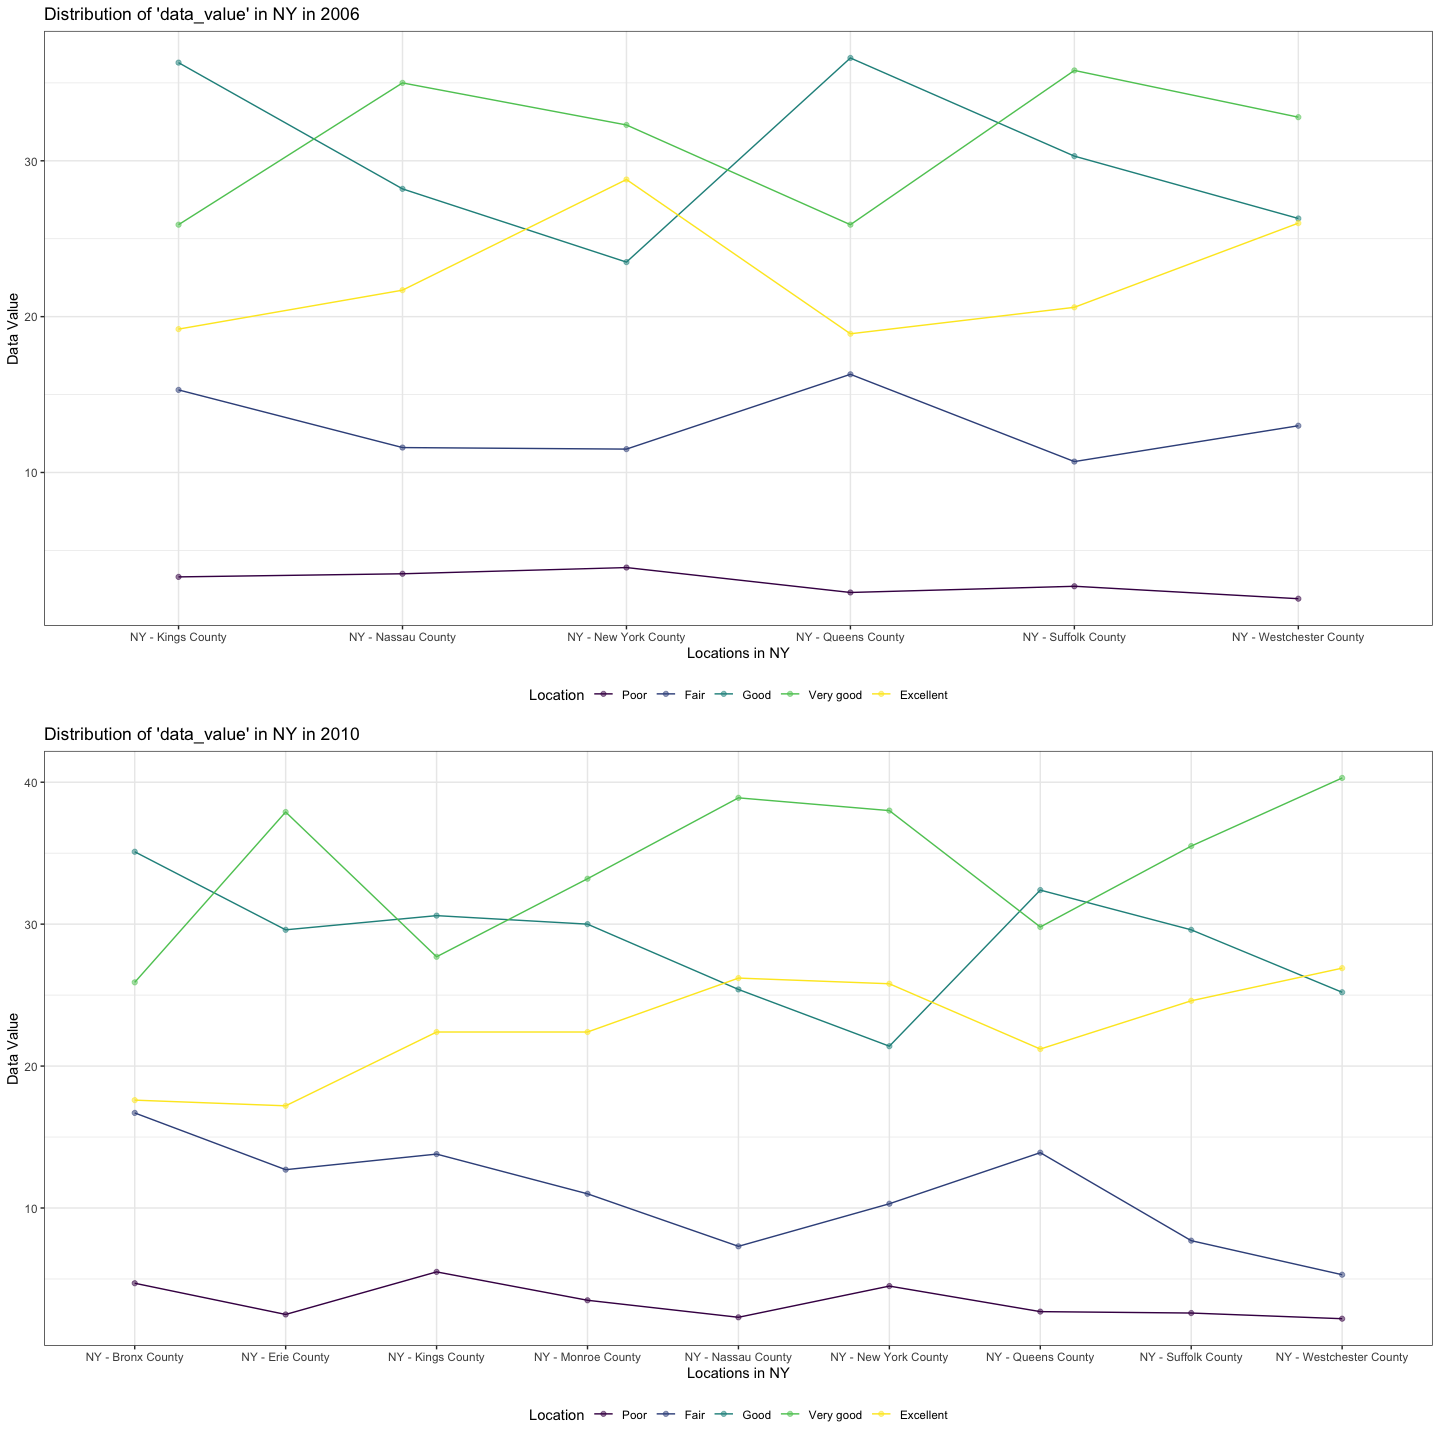
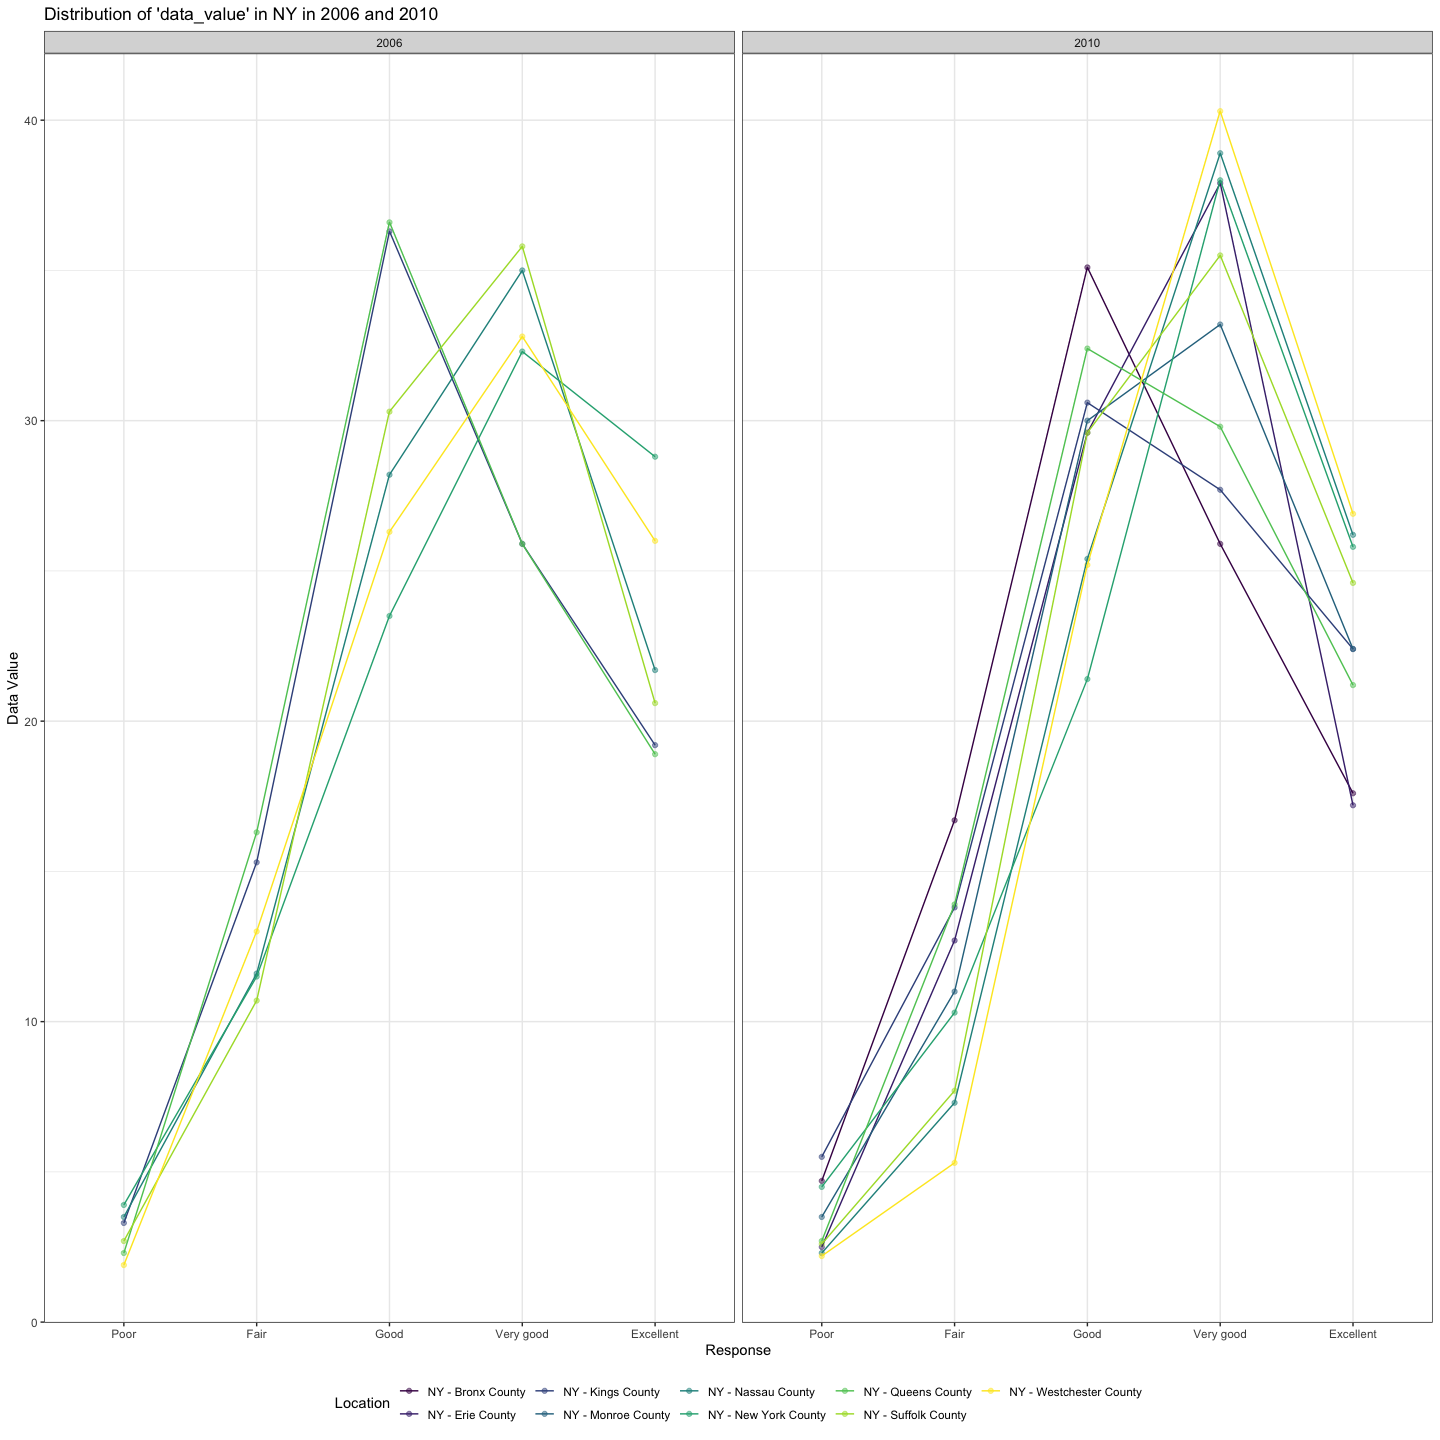
Changes on the comment.

diff --git a/p8105_hw3_yw3438.md b/p8105_hw3_yw3438.md
@@ -265,61 +265,38 @@ the trends.
 <!-- end list -->
 
 ``` r
-#Draw the plot of 2006
-data_value_06 = brfss_smart2010 %>% 
-  filter(year == "2006" & state_name_abb == "NY") %>% 
-  select(data_value, response, locationdesc) %>% 
-  ggplot(aes(x = locationdesc, y = data_value, 
-             group = response, color = response)) +
+#Draw the plot of 2006 and 2010
+brfss_smart2010 %>% 
+  filter(year %in% c("2006", "2010"), state_name_abb == "NY") %>% 
+  select(data_value, response, locationdesc, year) %>% 
+  ggplot(aes(x = response, y = data_value, 
+             group = locationdesc, color = locationdesc)) +
   geom_point(alpha = .5) +
   geom_line() +
   theme_bw() +
   theme(legend.position = "bottom") +
   labs(
-    x = "Locations in NY",
+    x = "Response",
     y = "Data Value",
-    title = "Distribution of 'data_value' in NY in 2006"
+    title = "Distribution of 'data_value' in NY in 2006 and 2010"
   ) +
   viridis::scale_color_viridis(
     name = "Location", 
     discrete = TRUE
-  )
-
-
-#Draw the plot of 2010
-data_value_10 = brfss_smart2010 %>% 
-  filter(year == "2010" & state_name_abb == "NY") %>% 
-  select(data_value, response, locationdesc) %>% 
-  ggplot(aes(x = locationdesc, y = data_value, 
-             group = response, color = response)) +
-  geom_point(alpha = .5) +
-  geom_line() +
-  theme_bw() +
-  theme(legend.position = "bottom") +
-  labs(
-    x = "Locations in NY",
-    y = "Data Value",
-    title = "Distribution of 'data_value' in NY in 2010"
   ) +
-  viridis::scale_color_viridis(
-    name = "Location", 
-    discrete = TRUE
-  )
-
-# Draw a two-panel plot
-data_value_06 / data_value_10
+  facet_grid(~year)
 ```
 
 ![](p8105_hw3_yw3438_files/figure-gfm/unnamed-chunk-12-1.png)<!-- -->
 
 The two-panel plot shows the distribution of “data\_value” for responses
 among locations in NY State of years 2006 and 2010, with y-axis
-representing data value and x-axis showing the locations in NY State.
-The line plot with value points shows the specific data value and the
-differences in different locations in 2006 and 2010. The plot can
-represent the general health conditions of people in specific districts
-and the difference of health conditions between poeple from different
-districts in 2006 and 2010.
+representing data value and x-axis showing the response. The line plot
+with value points shows the specific data value and the differences in
+different locations in 2006 and 2010. The plot can represent the general
+health conditions of people in specific districts and the difference of
+health conditions between poeple from different districts in 2006 and
+2010.
 
 ## Problem 3
 
@@ -395,11 +372,36 @@ knitr::kable(total_accel_data)
 |    5 |      33 | Thursday  | weekday          | 549658.00 |
 |    5 |      29 | Friday    | weekday          | 620860.00 |
 
+``` r
+# Create a plot to figure out any trends in the table
+total_accel_data %>% 
+  ggplot(aes(x = day_id, y = total,
+             color = week)) +
+  geom_point(alpha = .5) +
+  geom_line() +
+  theme_bw() +
+  theme(legend.position = "bottom") +
+  labs(
+    x = "Day ID",
+    y = "Total activity value",
+    title = "Distribution of total activity for each day in every week"
+  ) +
+  viridis::scale_color_viridis(
+    name = "Week", 
+    discrete = FALSE
+  )
+```
+
+![](p8105_hw3_yw3438_files/figure-gfm/unnamed-chunk-14-1.png)<!-- -->
+
 The table showing above can reflect the total activity for each day. In
 this table, the total value is ranked from low to high in each week.
 From the plot, it can be discovered that in the first weeks, the total
 activity is lower on the beginning of the week, like Monday. In the last
-two week, the total activity is quite low on Saturday.
+two week, the total activity is quite low on Saturday. From the plot
+showing the distribution of total activity for each day, it can be
+discovered that there were great changes in the total value and it
+varied greatly during each week.
 
 The single-panel plot of the 24-hour activity time courses for each day
 is like:
@@ -428,3 +430,7 @@ accel_data %>%
 ```
 
 ![](p8105_hw3_yw3438_files/figure-gfm/unnamed-chunk-15-1.png)<!-- -->
+
+From the plot , it can be discovered that the 24-hour activity time
+courses were generally small on Saturday and Monday, while that value of
+Friday was high on Friday.
